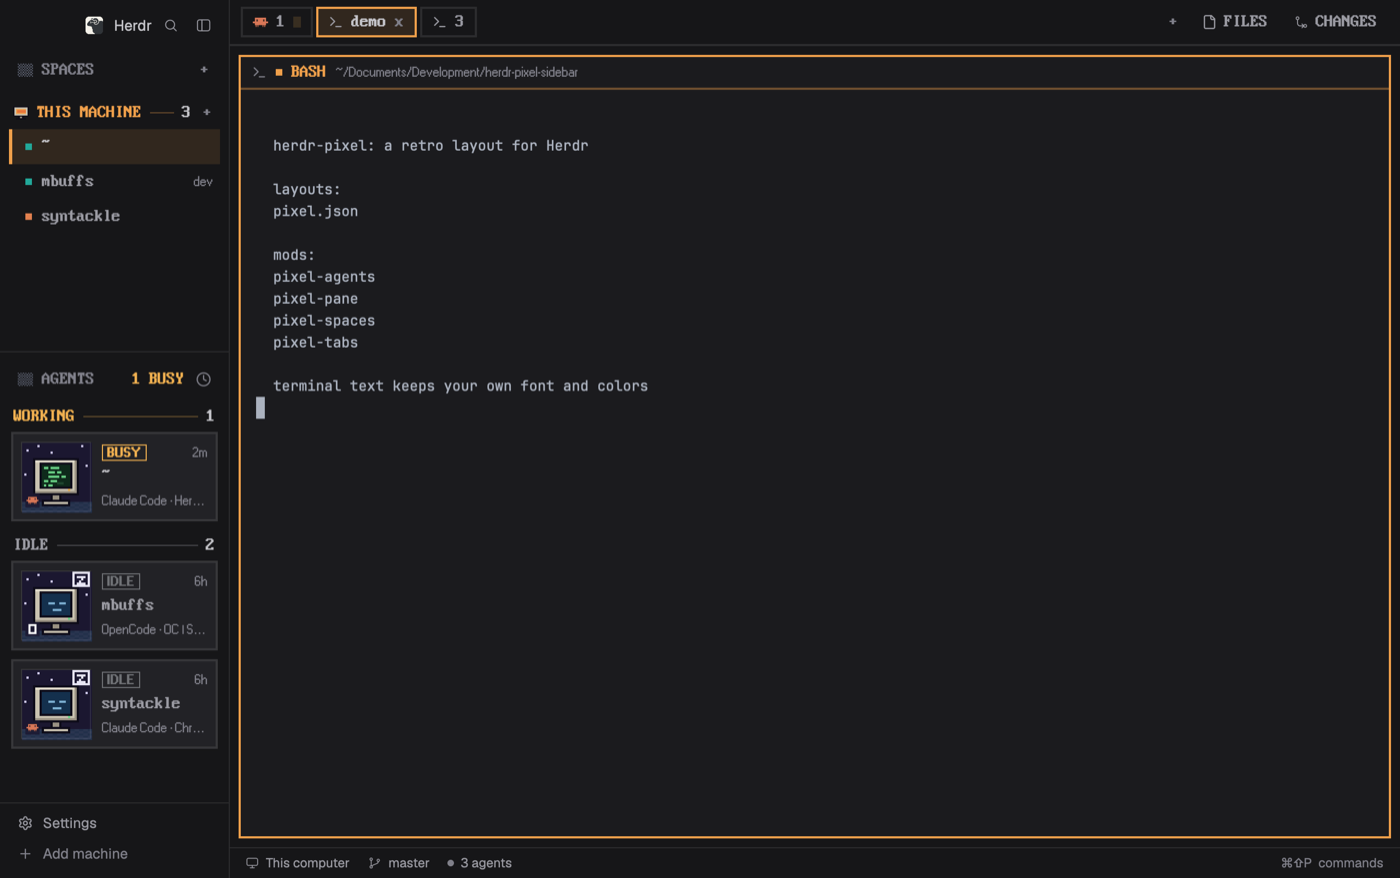
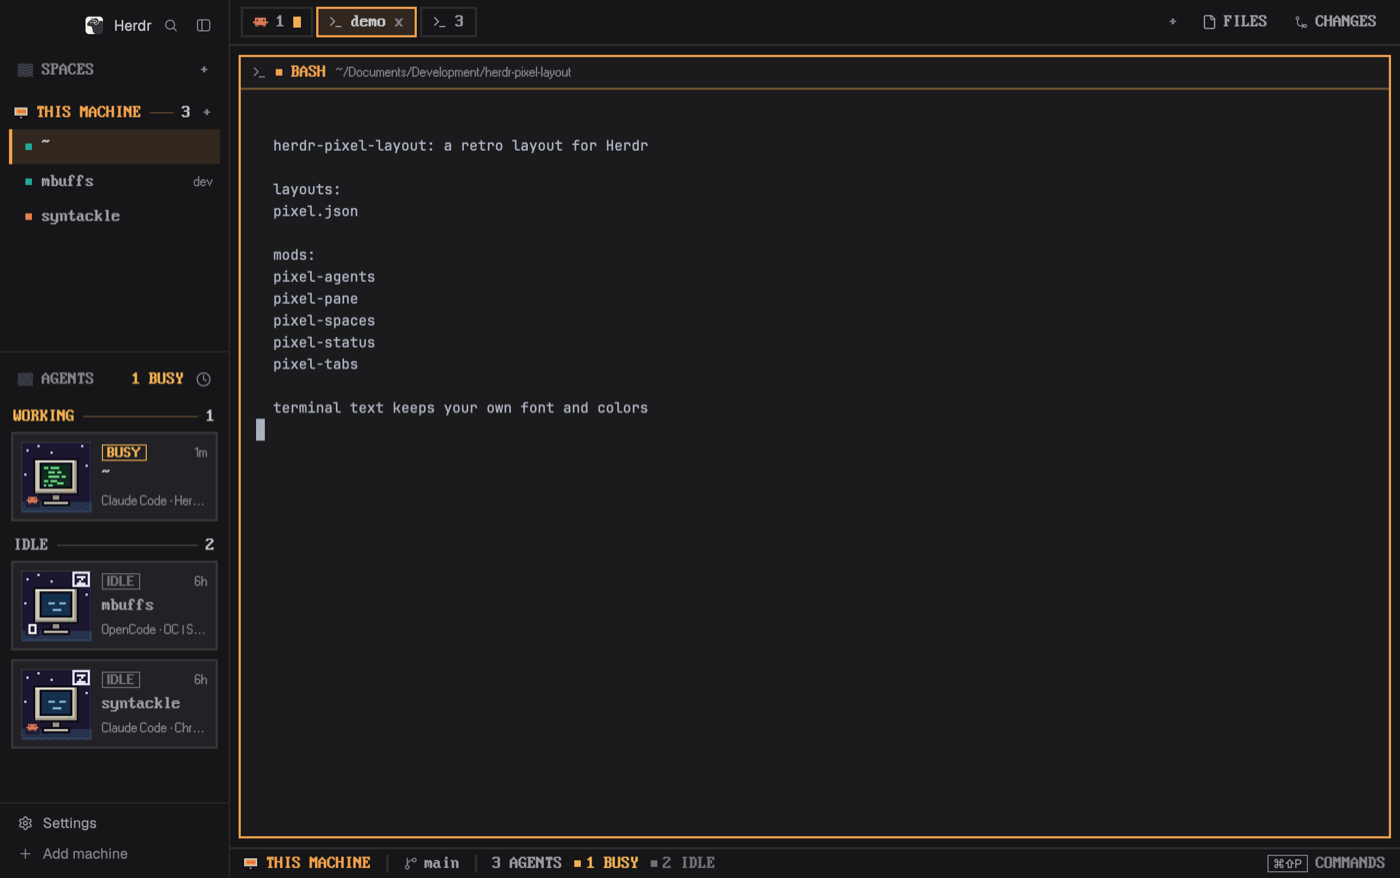
Add a DOS-style pixel status bar
pixel-status replaces workspace-status: machine, branch, agent count and
a colored count per status (busy blinks), with the palette key as a
keycap. Update RECIPE, README and preview.

diff --git a/mods/pixel-status/main.js b/mods/pixel-status/main.js
@@ -1,0 +1,55 @@
+// Modified from Herdr's shipped mod (Apache License 2.0, see LICENSE): pixel-art restyle.
+// A DOS-style status line: machine │ branch │ agents by status ··· [keys] COMMANDS
+
+import { View, div, svg, image } from "gpui-kit";
+import { h_flex } from "gpui-base";
+import { spaces, agents, theme, run, window, keys } from "herdr";
+
+// Pixel look (fonts ship in mods/pixel-spaces/fonts).
+const PX = "PxPlus IBM VGA 8x16";
+const ORANGE = "#f0a04b";
+const ART = "mods/pixel-spaces/art";
+// Most urgent first; each shows only when some agent is in it.
+const STATES = [["blocked", "NEEDS YOU"], ["working", "BUSY"], ["done", "DONE"], ["idle", "IDLE"]];
+
+export default class PixelStatus extends View {
+  // The palette key as actually bound, not a hardcoded one; without a
+  // binding the hint stays useful ("COMMANDS") instead of lying.
+  keycap() {
+    const mac = window()?.platform === "macos";
+    const mod = { cmd: mac ? "⌘" : "Ctrl+", ctrl: mac ? "⌃" : "Ctrl+", shift: mac ? "⇧" : "Shift+", alt: mac ? "⌥" : "Alt+", option: mac ? "⌥" : "Alt+" };
+    const b = keys().find((k) => k.section === "global" && k.action === "app.palette");
+    const parts = b && b.keys.endsWith("--") ? [...b.keys.slice(0, -2).split("-"), "-"] : b?.keys.split("-");
+    return parts ? parts.map((p) => mod[p.toLowerCase()] ?? p.toUpperCase()).join("") : null;
+  }
+
+  render() {
+    const t = theme();
+    const space = spaces().find((s) => s.active);
+    const list = agents();
+    const text = (s, color = t.muted) => div().flex_none().font_family(PX).text_size(16).line_height("16px").text_color(color).child(s);
+    const bar = () => text("│", t.border);
+    const counts = STATES.map(([s, word]) => [s, word, list.filter((a) => a.status === s).length]).filter(([, , n]) => n > 0);
+    const key = this.keycap();
+    return h_flex().size_full().px(12).gap(10).items_center().bg(t.chrome).border_t(2).border_color(t.border)
+      .child(h_flex().flex_none().gap(7).items_center()
+        .child(image(`${ART}/${space?.machine ? "server" : "monitor"}.svg`).w(14).h(12).flex_none())
+        .child(text((space?.machine ?? "This machine").toUpperCase(), ORANGE)))
+      .when(Boolean(space?.branch), (el) => el.child(bar()).child(h_flex().flex_none().min_w(0).gap(6).items_center()
+        .child(svg("mods/workspace-chrome/git-branch.svg").size(13).text_color(t.dim))
+        .child(div().max_w(220).truncate().font_family(PX).text_size(16).line_height("16px").text_color(t.muted).child(space.branch))))
+      .child(bar())
+      .child(text(`${list.length} AGENT${list.length === 1 ? "" : "S"}`))
+      .children(counts.map(([s, word, n]) => h_flex().flex_none().gap(5).items_center()
+        .child(div().size(6).flex_none().bg(t[s] ?? t.dim)
+          .when(s === "working", (el) => el.loop("opacity", { from: 0.15, to: 1, period: 900 })))
+        .child(text(`${n} ${word}`, t[s] ?? t.dim))))
+      .child(div().flex_1())
+      .child(h_flex().id("palette").flex_none().gap(7).items_center().cursor_pointer()
+        .hover((s) => s.opacity(0.8))
+        .on_click(() => run("app.palette"))
+        .when(Boolean(key), (el) => el.child(div().px(4).h(16).flex().items_center().border_1().border_color(t.dim)
+          .text_size(11).text_color(t.muted).child(key)))
+        .child(text("COMMANDS", t.dim)));
+  }
+}

diff --git a/RECIPE.md b/RECIPE.md
@@ -1,6 +1,6 @@
 # Pixel
 
-A retro, pixel-art take on Herdr's main window that leaves the terminals' own text alone. Spaces are listed under a machine heading set in a VGA bitmap font. Agents become framed cards, each with a tiny pixel scene that shows the agent's status: a sleeping monitor, a screen of scrolling code with a blinking cursor, a smile, or a red "!". Tabs are square pixel boxes. Every terminal sits in a square 2px frame with a pixel header, and the focused one turns orange. The terminal inside keeps the person's own font, size and colors.
+A retro, pixel-art take on Herdr's main window that leaves the terminals' own text alone. Spaces are listed under a machine heading set in a VGA bitmap font. Agents become framed cards, each with a tiny pixel scene that shows the agent's status: a sleeping monitor, a screen of scrolling code with a blinking cursor, a smile, or a red "!". Tabs are square pixel boxes, and the status bar reads like a DOS status line. Every terminal sits in a square 2px frame with a pixel header, and the focused one turns orange. The terminal inside keeps the person's own font, size and colors.
 
 ![Pixel](preview.png)
 
@@ -41,6 +41,14 @@ A retro, pixel-art take on Herdr's main window that leaves the terminals' own te
   - The folder (`~`-shortened) in MS Sans Serif 11px, `dim`.
   - The agent's status badge on the right, styled like the cards' badges.
   - On hover, split right, split down, zoom and close buttons appear. Each gets an orange 1px outline on hover.
+**Status bar** (28px, `chrome`, 2px top rule in `border`), left to right with 10px gaps, all in the VGA font at 16px:
+
+- The pixel monitor icon (or the server icon for a remote space) and the machine name in upper case in `#f0a04b` (`THIS MACHINE` for this computer).
+- When the space's first terminal is in a git repo: a `│` in `border`, Herdr's `git-branch` icon (13px, `dim`) and the branch (`muted`, truncated at 220px).
+- `│`, then `N AGENTS` (`muted`).
+- One segment per status that has agents, most urgent first: a 6×6 square and `N NEEDS YOU` / `N BUSY` / `N DONE` / `N IDLE`, both in that status color. The busy square blinks.
+- On the right: the command palette's key as bound in `keys.json`, in a 1px `dim` keycap (11px UI font, since the VGA font has no ⌘ glyph), then `COMMANDS` in `dim`. Clicking it opens the palette.
+
 - **Terminal text**: the layout sets no `font`, `font_size`, `theme` or `colors`, so terminals keep exactly what `settings.json` gives them.
 
 The scenes are 32×32 pixel art drawn at 2× scale: a beige CRT on a navy starfield (`#1b1730`) over a striped floor.
@@ -74,8 +82,10 @@ The scenes are 32×32 pixel art drawn at 2× scale: a beige CRT on a navy starfi
 - `layouts/pixel.json`: a clone of Herdr's `main`.
   - The `spaces` and `agents` blocks point to `pixel-spaces` (weight 2) and `pixel-agents` (weight 3), and the `tabs` block to `pixel-tabs`.
   - The `main` block's `pane` is `{radius: 0, border: {width: 2, color: "border"}, focus: {width: 2, color: "#f0a04b"}, header: {content: {mod: "pixel-pane"}, height: 30, position: "top", reveal: "always"}, gap: 8, lone: true, background: "background"}`.
-  - Every other block uses Herdr's shipped mods: `workspace-chrome`, `files`, `changes` and `workspace-status`.
+  - The `status` block points to `pixel-status`.
+  - Every other block uses Herdr's shipped mods: `workspace-chrome`, `files` and `changes`.
 - `mods/pixel-tabs`: a clone of Herdr's `tabs` mod with its items, buttons and panel toggles restyled. It calls `spaces`, `panes`, `run` (`tab.select`, `tab.move`, `tab.rename`, `tab.close`, `tab.prev`, `tab.next`, `layout.show`, `layout.hide`, `layout.select`, `window.*`), `openOverlay` (`new-menu`, `menu`), `window`, `layout`, `settings` and `shared` (`workspace.panels`).
+- `mods/pixel-status`: a rewrite of Herdr's `workspace-status` mod. It calls `spaces`, `agents`, `keys`, `window` and `run` (`app.palette`), and uses `pixel-spaces/art` icons.
 - `mods/pixel-pane`: a clone of Herdr's `pane` header mod, restyled. It calls `panes`, `props` and `run` (`pane.focus`, `pane.split`, `pane.zoom`, `pane.close`).
 - `mods/pixel-spaces`: a clone of Herdr's `spaces` mod.
   - Adds `pixelHeading()` and a pixel heading for each machine, and restyles `row()` and the header.
@@ -97,7 +107,7 @@ The scenes are 32×32 pixel art drawn at 2× scale: a beige CRT on a navy starfi
 
 - **Font sizes:** the VGA font is crisp only at 16px (its native cell). Smaller sizes blur, so small print uses MS Sans Serif at 11px instead.
 - **Terminal text:** don't set `font`, `font_size`, `theme` or `colors` on the layout root. They would change the terminals' text, which this layout deliberately leaves alone. All restyling lives in the mods and the pane frame.
-- **Shared fonts:** `pixel-agents`, `pixel-tabs` and `pixel-pane` have no `fonts/` folder of their own and rely on `pixel-spaces/fonts`. Fonts load at start and on the next look change. Switching to the layout loads them, but if text renders in a fallback font, switch layouts once.
+- **Shared fonts:** `pixel-agents`, `pixel-tabs`, `pixel-pane` and `pixel-status` have no `fonts/` folder of their own and rely on `pixel-spaces/fonts`. Fonts load at start and on the next look change. Switching to the layout loads them, but if text renders in a fallback font, switch layouts once.
 - **Cursor position:** the cursor's position (32, 36) is tied to the art's 2× scale. Redrawing `working.svg` or changing the 64px scene size moves it off the screen.
 - **Shipped icons:** both mods still reference shipped icons in `mods/workspace-chrome/` (plus, chevrons, pin, sort, spinner). Those ship with Herdr, but renaming them would break these mods.
 - **Heading space:** long machine names truncate at 150px, so the rule can shrink to its 8px minimum.
@@ -105,7 +115,8 @@ The scenes are 32×32 pixel art drawn at 2× scale: a beige CRT on a navy starfi
 
 ## Done when
 
-- `herdr-app check` passes for `mods/pixel-spaces`, `mods/pixel-agents`, `mods/pixel-tabs` and `mods/pixel-pane`.
+- `herdr-app check` passes for `mods/pixel-spaces`, `mods/pixel-agents`, `mods/pixel-tabs`, `mods/pixel-pane` and `mods/pixel-status`.
+- The status bar reads `THIS MACHINE │ N AGENTS`, plus a count for each status present, and the busy count's square blinks while an agent works.
 - The active tab has a square orange outline. Splitting a pane (`pane.split:right`) shows two square 2px frames, and only the focused one is orange with an orange upper-case name in its header.
 - Terminal text looks exactly as it does in Herdr's `main` layout: same font, size and colors.
 - `herdr-app do layout.switch --name pixel` shows `SPACES` and `AGENTS` in the VGA bitmap font, not a smooth fallback font.

diff --git a/README.md b/README.md
@@ -1,6 +1,6 @@
 # Pixel: a retro layout for Herdr
 
-A retro pixel-art layout for the [Herdr](https://herdr.dev) app. It uses bitmap-font headings and turns each agent into a card with a tiny scene that shows its status (sleeping, busy, done or needs you). Tabs and terminal frames are square, and the focused one is orange. Terminal text keeps your own font and colors.
+A retro pixel-art layout for the [Herdr](https://herdr.dev) app. It uses bitmap-font headings and turns each agent into a card with a tiny scene that shows its status (sleeping, busy, done or needs you). Tabs and terminal frames are square, the focused one is orange, and the status bar reads like a DOS status line. Terminal text keeps your own font and colors.
 
 ![Pixel layout preview](preview.png)
 
@@ -14,12 +14,12 @@ Or copy the files yourself:
 
 ```sh
 cp layouts/pixel.json ~/.config/herdr-app/layouts/
-cp -R mods/pixel-spaces mods/pixel-agents mods/pixel-tabs mods/pixel-pane ~/.config/herdr-app/mods/
-for m in pixel-spaces pixel-agents pixel-tabs pixel-pane; do herdr-app check ~/.config/herdr-app/mods/$m; done
+cp -R mods/pixel-spaces mods/pixel-agents mods/pixel-tabs mods/pixel-pane mods/pixel-status ~/.config/herdr-app/mods/
+for m in pixel-spaces pixel-agents pixel-tabs pixel-pane pixel-status; do herdr-app check ~/.config/herdr-app/mods/$m; done
 herdr-app do layout.switch --name pixel
 ```
 
-`ctrl-shift-l` switches back to your previous layout. Delete the copied layout file and four mod folders to remove it.
+`ctrl-shift-l` switches back to your previous layout. Delete the copied layout file and five mod folders to remove it.
 
 ## Customize
 
@@ -32,9 +32,9 @@ herdr-app do layout.switch --name pixel
 ## Credits and licenses
 
 - The `main.js` of each `mods/pixel-*` folder is a modified copy of Herdr's shipped `spaces`, `agents`,
-  `tabs` and `pane` mods, and `layouts/pixel.json` of its `main` layout (Herdr 0.1.14, Apache License 2.0;
+  `tabs`, `pane` and `workspace-status` mods, and `layouts/pixel.json` of its `main` layout (Herdr 0.1.14, Apache License 2.0;
   see [`LICENSE`](LICENSE)). The changes restyle how they draw: pixel headings, per-machine space headings,
-  agent cards, square tabs and pane frames. The icons in `pixel-tabs` and `pixel-pane` are Herdr's, unchanged. The code and layout in this repo are under the same license.
+  agent cards, square tabs, pane frames and the status line. The icons in `pixel-tabs` and `pixel-pane` are Herdr's, unchanged. The code and layout in this repo are under the same license.
 - The pixel art is original to this repo.
 - Fonts, unchanged, with their license files in `mods/pixel-spaces/fonts/`:
   - **PxPlus IBM VGA 8x16** by VileR (int10h.org), CC BY-SA 4.0.
